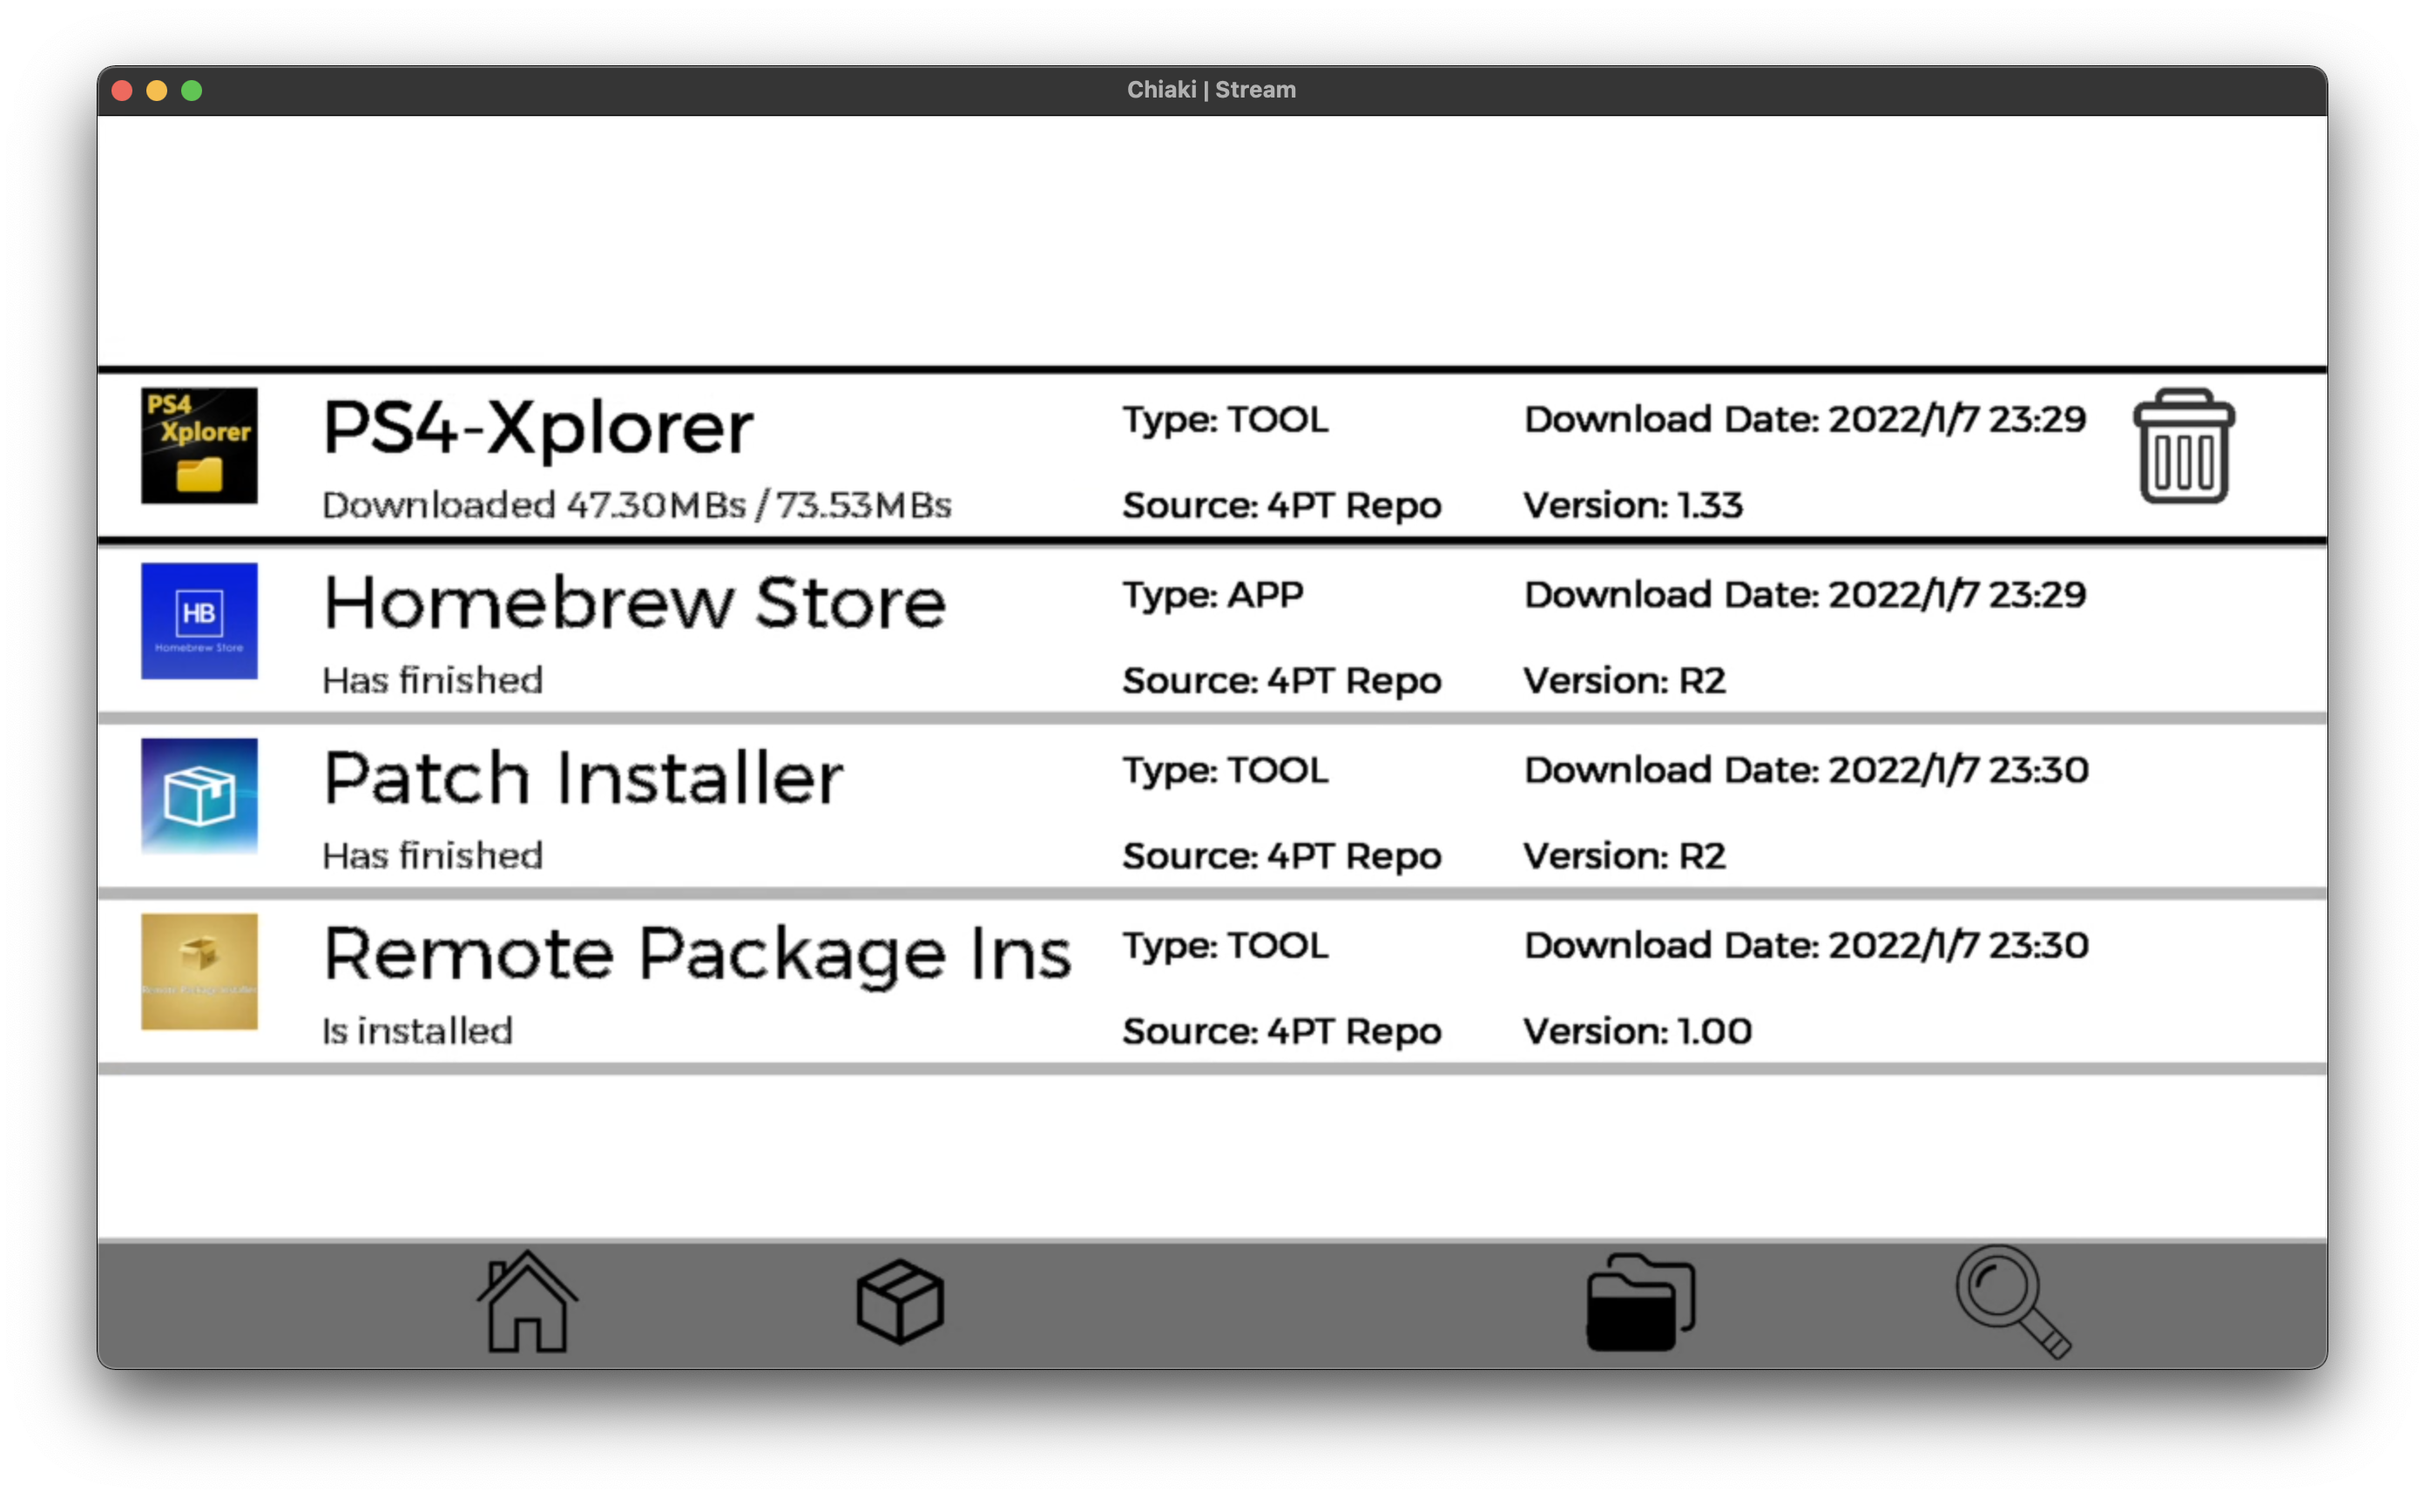
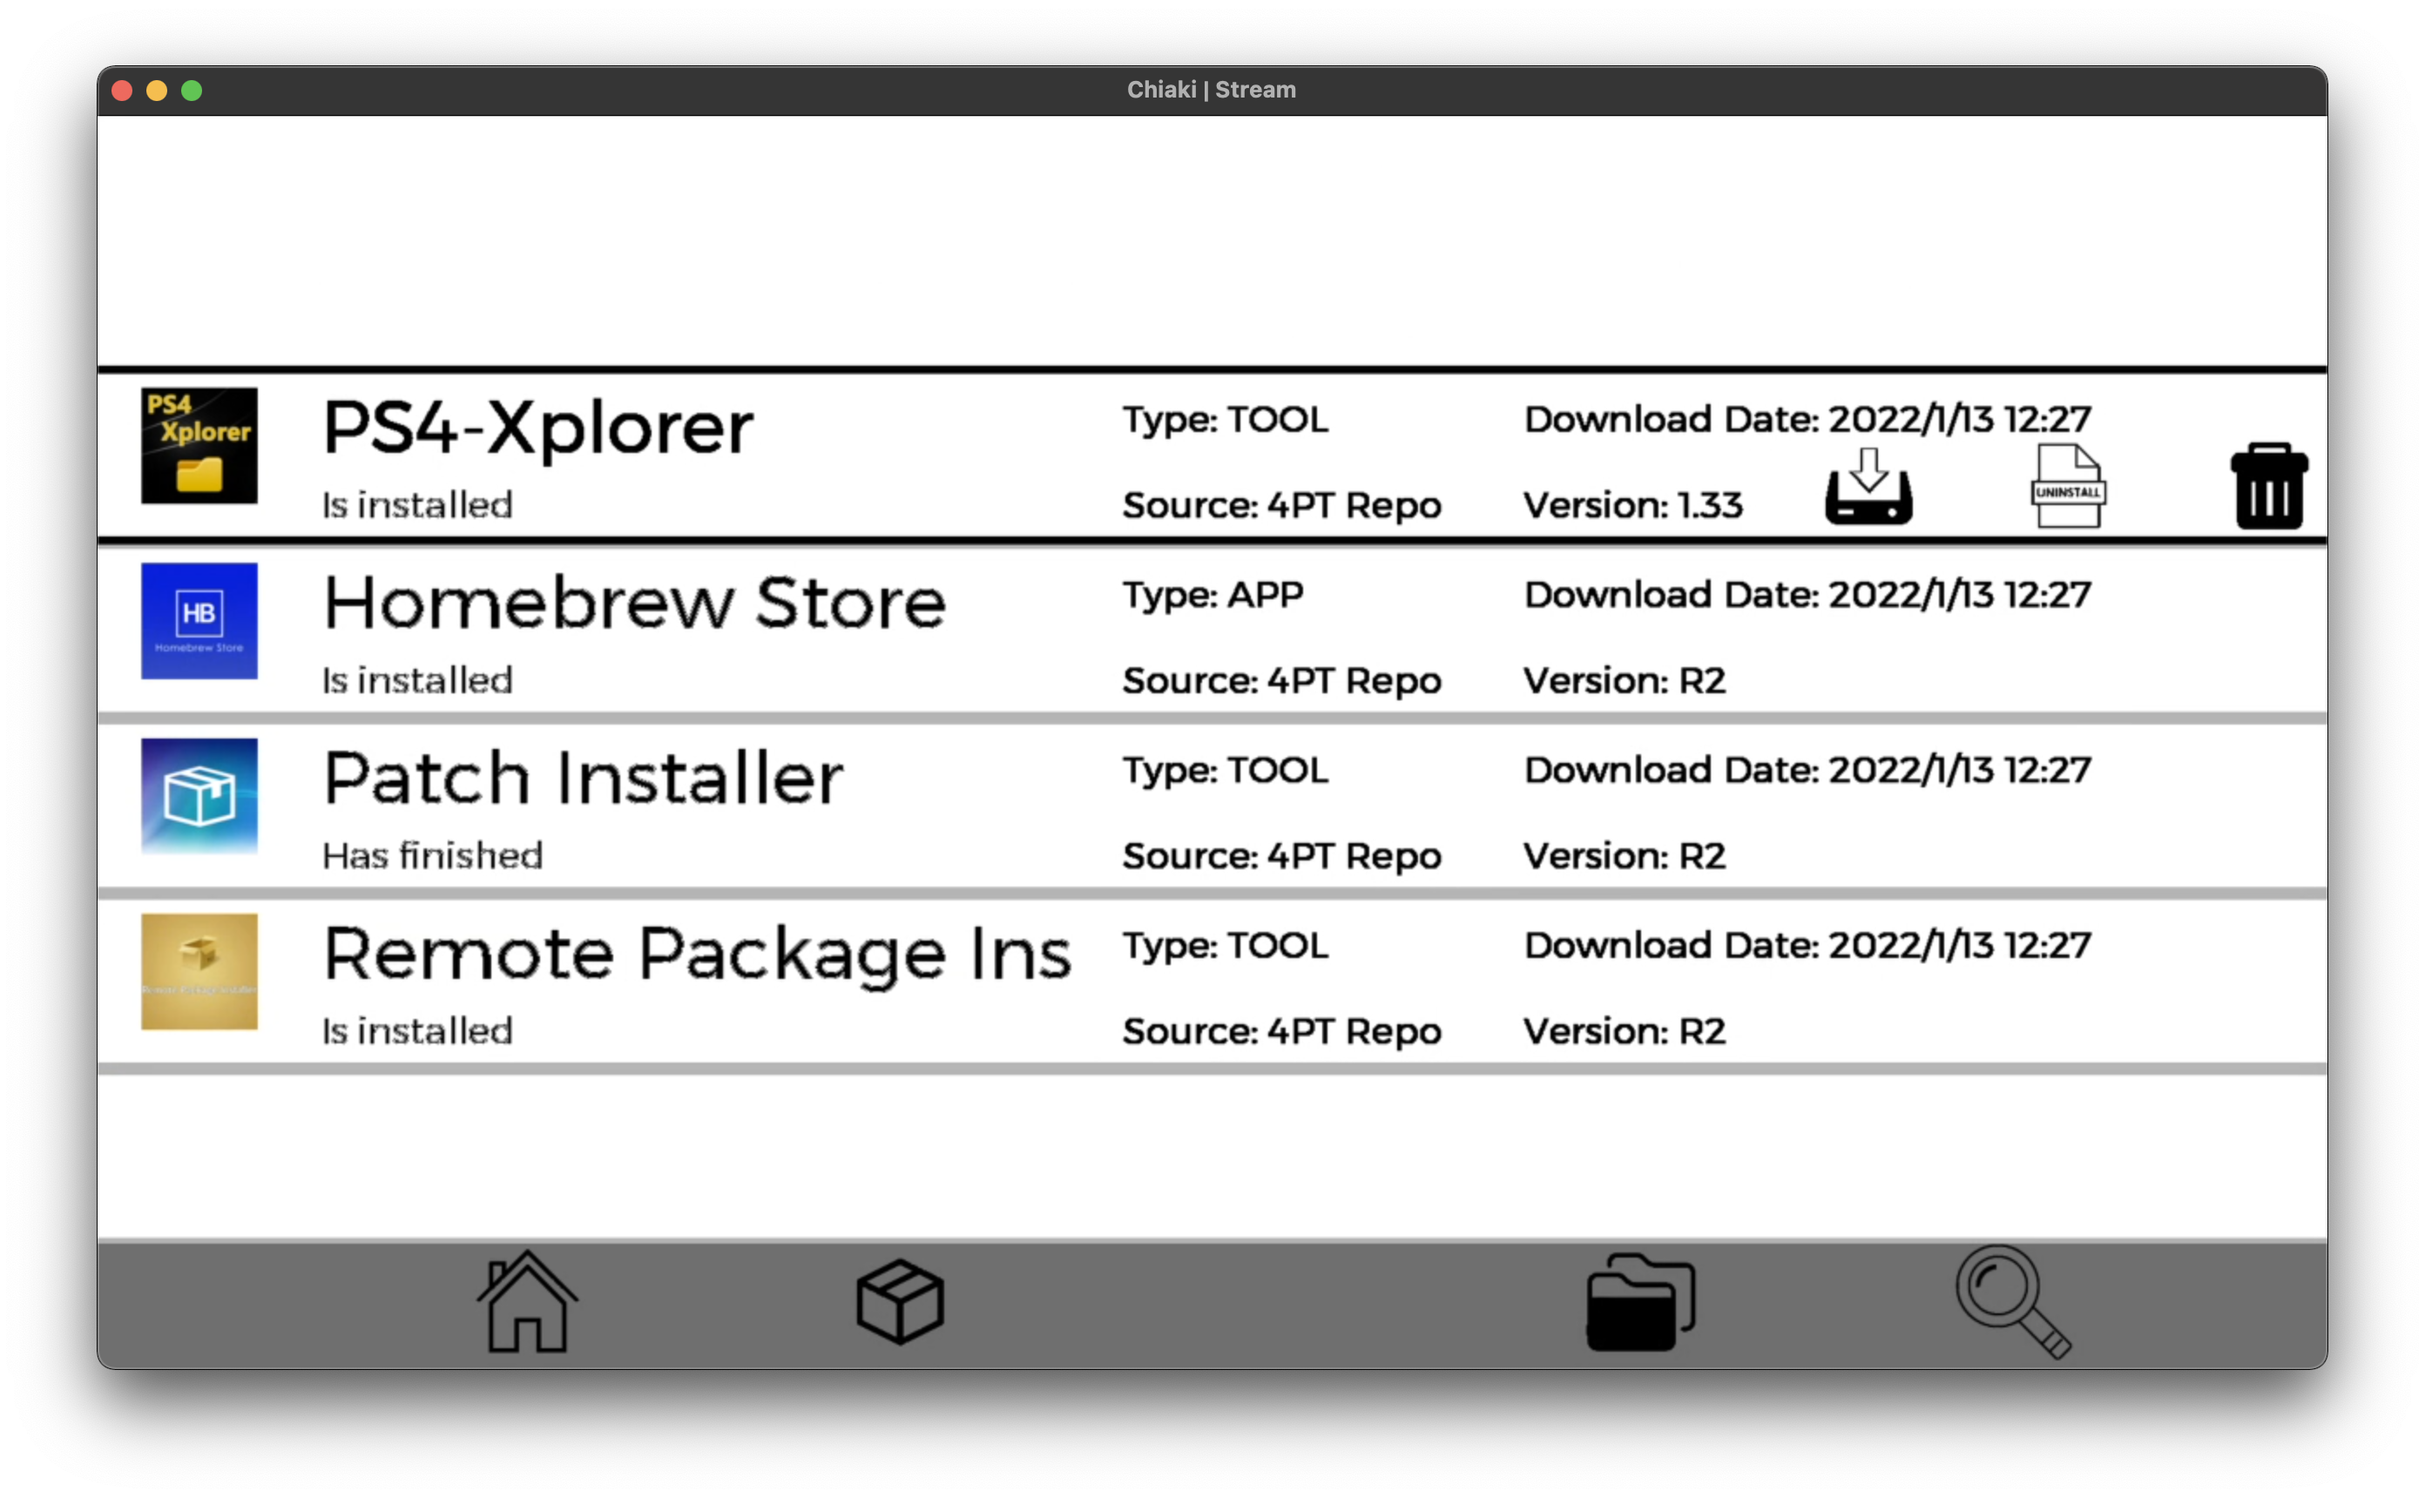
Updated Screenshots and Tutorial to match new version

diff --git a/TUTORIAL.md b/TUTORIAL.md
@@ -33,6 +33,7 @@
         <a href="#dl">Downloads List</a>
       <ul>
         <li><a href="#id">Install Download</a></li>
+        <li><a href="#ud">Uninstall Download</a></li>
         <li><a href="#rd">Remove Download</a></li>
         <li><a href="#rf">Retry Failed Download</a></li>
       </ul>
@@ -89,15 +90,24 @@ open the keyboard, type the URL and press Add Repo.
 
 ### Install Download
 
-To install a download, select it from the downloads list using the up/down arrows 
+To install a download, select it from the downloads list using the up/down arrows, select the install option by using the right/left arrows,
 and press X.
+
+<div id="ud"></div>
+
+### Uninstall Download
+
+To uninstall a download from the PS4, select it from the downloads list using the up/down arrows,
+select the uninstall option by using the right/left arrows, and press X.
+
+***(NOTE: THIS WILL UNINSTALL THE APP FROM THE PS4)***
 
 <div id="rd"></div>
 
 ### Remove Download
 
-To remove a download (from the app and the disk), select it form the downloads list using the up/down arrows,
- select the delete option by pressing the right arrow, and press X.
+To remove a download (from the app and the disk), select it from the downloads list using the up/down arrows,
+ select the delete option by using the right/left arrows, and press X.
 
 ***(NOTE: THIS WILL NOT UNINSTALL THE APP FROM THE PS4)***
 
@@ -106,8 +116,8 @@ To remove a download (from the app and the disk), select it form the downloads l
 
 ### Retry Failed Download
 
-To retry a failed download, select it from the downloads list using the up/down arrows
-and press X.
+To retry a failed download, select it from the downloads list using the up/down arrows, select the download option by 
+using the right/left arrows, and press X.
 
 ***
 
